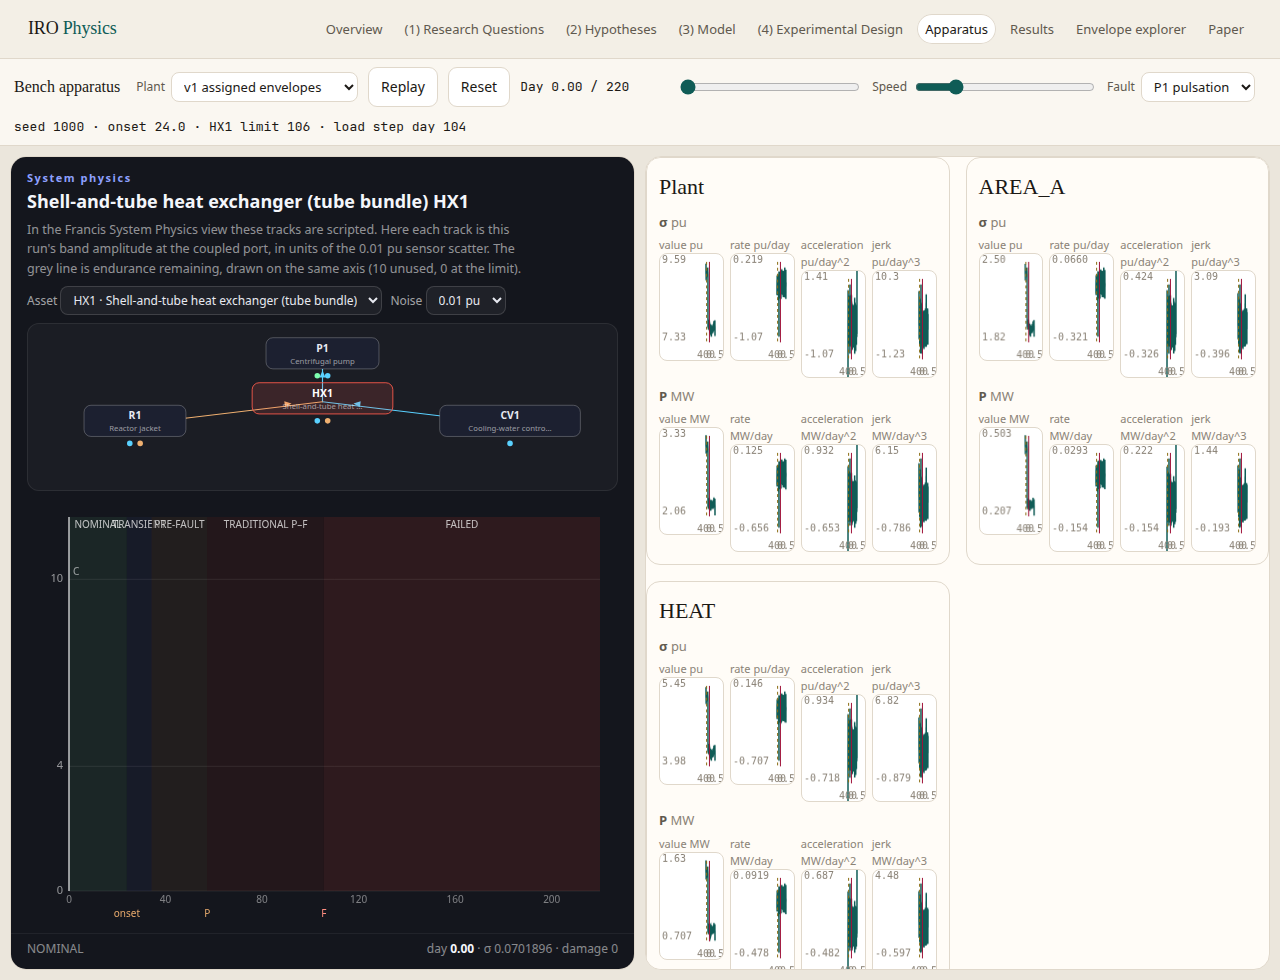
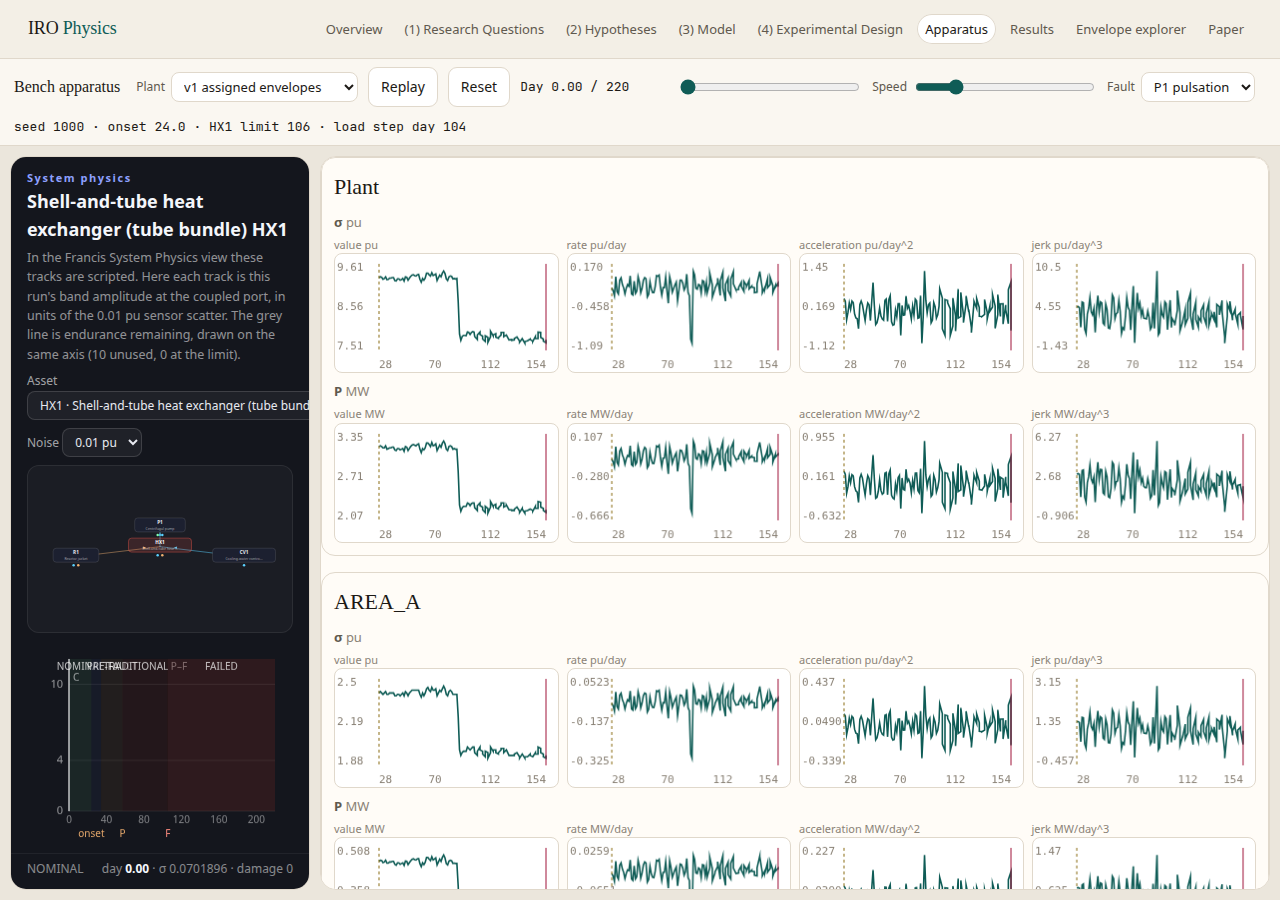
Make the envelope calculus charts span the day axis
Map each sample from the first plotted day to the last, with three or four integer day ticks and a y-scale that leaves the unit in the panel title. Stack each node's sigma and power rows at full card width, and open on the onset-to-failure window.

diff --git a/site/js/envelope-tree.js b/site/js/envelope-tree.js
@@ -18,8 +18,8 @@ export function mountNest(root, { peer } = {}) {
         <button type="button" class="btn" data-tree="discovered" aria-pressed="false">Discovered</button>
       </div>
       <div class="seg" role="group" aria-label="Days shown">
-        <button type="button" class="btn" data-win="all" aria-pressed="true">All days</button>
-        <button type="button" class="btn" data-win="fault" aria-pressed="false">Onset to failure</button>
+        <button type="button" class="btn" data-win="all" aria-pressed="false">All days</button>
+        <button type="button" class="btn" data-win="fault" aria-pressed="true">Onset to failure</button>
       </div>
       <ul class="dom-legend">${Object.keys(DOMAIN).map((name) =>
         `<li><i style="background:${DOMAIN[name]}"></i>${name}</li>`
@@ -38,7 +38,7 @@ export function mountNest(root, { peer } = {}) {
   const notice = root.querySelector("[data-notice]");
 
   let mode = "designed";
-  let windowMode = "all";
+  let windowMode = "fault";
   const packs = {};
   let byId = {};
   let boundary = [];
@@ -316,14 +316,27 @@ export function mountNest(root, { peer } = {}) {
     }
   }
 
-  function dayTick(value) {
-  const n = Number(value);
-  if (!Number.isFinite(n)) return "";
-  if (Math.abs(n) >= 10) return String(Math.round(n));
-  return String(Math.round(n * 10) / 10);
-}
+  function shortNum(value) {
+    const n = Number(value);
+    if (!Number.isFinite(n)) return "";
+    const ax = Math.abs(n);
+    if (ax >= 100) return String(Math.round(n));
+    if (ax >= 10) return String(Math.round(n * 10) / 10);
+    if (ax >= 1) return String(Math.round(n * 100) / 100);
+    return sig3(n);
+  }
 
-function nearest(days, day) {
+  function dayTicks(d0, d1) {
+    const start = Math.ceil(Number(d0));
+    const end = Math.floor(Number(d1));
+    if (end <= start) return [Math.round(d0), Math.round(d1)];
+    const count = end - start >= 90 ? 4 : 3;
+    const ticks = [];
+    for (let k = 0; k < count; k++) ticks.push(Math.round(start + ((end - start) * k) / (count - 1)));
+    return [...new Set(ticks)];
+  }
+
+  function nearest(days, day) {
     let best = 0;
     let gap = Infinity;
     days.forEach((value, index) => {
@@ -334,72 +347,71 @@ function nearest(days, day) {
   }
 
   function drawSeries(canvas, series, days, idx, marks) {
-    const width = canvas.clientWidth || 140;
-    const height = 108;
+    const width = canvas.clientWidth || 220;
+    const height = 120;
     const ratio = window.devicePixelRatio || 1;
     canvas.width = Math.round(width * ratio);
     canvas.height = Math.round(height * ratio);
     const ctx = canvas.getContext("2d");
     ctx.setTransform(ratio, 0, 0, ratio, 0, 0);
     ctx.clearRect(0, 0, width, height);
-    const padL = 46;
-    const padR = 8;
-    const padT = 8;
-    const padB = 18;
+    const padL = 44;
+    const padR = 12;
+    const padT = 10;
+    const padB = 22;
+    const plotW = Math.max(40, width - padL - padR);
+    const d0 = Number(days[idx[0]]);
+    const d1 = Number(days[idx[idx.length - 1]]);
+    const span = d1 - d0 || 1;
+    const xDay = (day) => padL + ((Number(day) - d0) / span) * plotW;
     const scaleIdx = idx.filter((i) => i !== 0 && i !== series.length - 1);
-    const used = (scaleIdx.length > 2 ? scaleIdx : idx).map((i) => series[i]);
+    const used = (scaleIdx.length > 2 ? scaleIdx : idx).map((i) => Number(series[i]));
     let lo = Math.min(...used);
     let hi = Math.max(...used);
     if (!Number.isFinite(lo) || lo === hi) { lo = (Number.isFinite(lo) ? lo : 0) - 1; hi = (Number.isFinite(hi) ? hi : 0) + 1; }
-    const slack = (hi - lo) * 0.08;
+    const slack = (hi - lo) * 0.1;
     lo -= slack;
     hi += slack;
-    const xAt = (i) => {
-      const place = idx.indexOf(i);
-      const n = Math.max(1, idx.length - 1);
-      return padL + ((place < 0 ? 0 : place) / n) * (width - padL - padR);
-    };
-    const yAt = (v) => padT + (1 - (v - lo) / (hi - lo)) * (height - padT - padB);
+    const yAt = (v) => padT + (1 - (Number(v) - lo) / (hi - lo)) * (height - padT - padB);
     ctx.beginPath();
     ctx.strokeStyle = "#0f5c56";
-    ctx.lineWidth = 1.5;
+    ctx.lineWidth = 1.6;
     idx.forEach((i, n) => {
-      const x = xAt(i);
+      const x = xDay(days[i]);
       const y = yAt(series[i]);
       if (n === 0) ctx.moveTo(x, y);
       else ctx.lineTo(x, y);
     });
     ctx.stroke();
-    markLine(ctx, marks.onset, idx, xAt, padT, height - padB, "#8a6d12", true);
-    markLine(ctx, marks.fail, idx, xAt, padT, height - padB, "#9f1239", false);
+    const xIndex = (index) => (idx.includes(index) ? xDay(days[index]) : null);
+    markLine(ctx, xIndex(marks.onset), padT, height - padB, "#8a6d12", true);
+    markLine(ctx, xIndex(marks.fail), padT, height - padB, "#9f1239", false);
     ctx.fillStyle = "#8a8276";
-    ctx.font = "10px ui-monospace, monospace";
-    ctx.textBaseline = "top";
-    ctx.fillText(sig3(hi), 2, 1);
-    ctx.textBaseline = "bottom";
-    ctx.fillText(sig3(lo), 2, height - padB);
-    ctx.textAlign = "left";
+    ctx.font = "11px ui-monospace, monospace";
+    const yTicks = [hi, (hi + lo) / 2, lo];
+    yTicks.forEach((value) => {
+      const y = yAt(value);
+      ctx.textAlign = "left";
+      ctx.textBaseline = "middle";
+      ctx.fillText(shortNum(value), 2, Math.min(height - padB - 4, Math.max(padT + 4, y)));
+    });
     ctx.textBaseline = "alphabetic";
-    const ticks = width < 240
-      ? [idx[0], idx[idx.length - 1]]
-      : [idx[0], idx[Math.floor((idx.length - 1) / 2)], idx[idx.length - 1]];
-    ticks.forEach((i, n) => {
-      const x = xAt(i);
-      const last = n === ticks.length - 1;
-      ctx.textAlign = n === 0 ? "left" : last ? "right" : "center";
-      ctx.fillText(dayTick(days[i]), last ? Math.min(x, width - 2) : x, height - 2);
+    dayTicks(d0, d1).forEach((day, n, all) => {
+      const x = xDay(day);
+      ctx.textAlign = n === 0 ? "left" : n === all.length - 1 ? "right" : "center";
+      const labelX = n === 0 ? padL : n === all.length - 1 ? padL + plotW : x;
+      ctx.fillText(String(day), labelX, height - 4);
     });
     ctx.textAlign = "left";
   }
 
-  function markLine(ctx, index, idx, xAt, top, bottom, color, dashed) {
-    if (index < 0 || !idx.includes(index)) return;
+  function markLine(ctx, x, top, bottom, color, dashed) {
+    if (x == null) return;
     ctx.save();
     ctx.strokeStyle = color;
     ctx.lineWidth = 1;
     if (dashed) ctx.setLineDash([3, 3]);
     ctx.beginPath();
-    const x = xAt(index);
     ctx.moveTo(x, top);
     ctx.lineTo(x, bottom);
     ctx.stroke();

diff --git a/site/css/site.css b/site/css/site.css
@@ -126,19 +126,23 @@ h1 {
 .kids { display: flex; flex-wrap: nowrap; justify-content: center; gap: 18px 14px; position: relative; width: max-content; min-width: 100%; padding-top: 10px; }
 .kids > .enode { position: relative; z-index: 1; }
 .sibs { position: absolute; inset: 0; width: 100%; height: 100%; overflow: visible; pointer-events: none; z-index: 0; }
-.chart-row { display: grid; grid-template-columns: repeat(auto-fit, minmax(260px, 1fr)); gap: 16px; }
-.calc-card { background: var(--card); border: 1px solid var(--line); border-radius: 14px; padding: 12px; }
+.chart-row { display: flex; flex-direction: column; gap: 16px; }
+.calc-card { background: var(--card); border: 1px solid var(--line); border-radius: 14px; padding: 12px; width: 100%; }
 .calc-card h2 { font-family: var(--serif); font-weight: 500; font-size: 22px; margin: 0 0 8px; }
 .calc-card h3 { margin: 8px 0 4px; font-size: 13px; color: var(--muted); font-weight: 650; }
-.orders { display: grid; grid-template-columns: repeat(4, minmax(0, 1fr)); gap: 6px; }
+.orders { display: grid; grid-template-columns: repeat(4, minmax(0, 1fr)); gap: 8px; }
 .orders figure { margin: 0; }
 .orders figcaption { font-size: 11px; color: var(--faint); }
-.orders canvas { width: 100%; height: 108px; display: block; background: #fff; border-radius: 8px; border: 1px solid var(--line); }
+.orders canvas { width: 100%; height: 120px; display: block; background: #fff; border-radius: 8px; border: 1px solid var(--line); }
 .orders figcaption span, .calc-card h3 span { color: var(--faint); font-weight: 500; }
 .pane .nest-root { height: 100%; overflow: auto; padding: 10px 12px 28px; }
+@media (min-width: 1100px) {
+  body.app #v1views #physics { flex: 0 0 300px; }
+  body.app #v1views #envelope { flex: 1 1 auto; }
+}
 @media (max-width: 720px) {
-  .orders { grid-template-columns: repeat(2, minmax(0, 1fr)); }
   .enode-btn { min-width: 64px; padding: 7px 8px; }
+  .orders { grid-template-columns: repeat(4, minmax(200px, 1fr)); overflow-x: auto; }
 }
 .lede + .lede { color: var(--muted); font-size: 16.5px; }
 .actions { display: flex; gap: 10px; margin: 22px 0 8px; }
